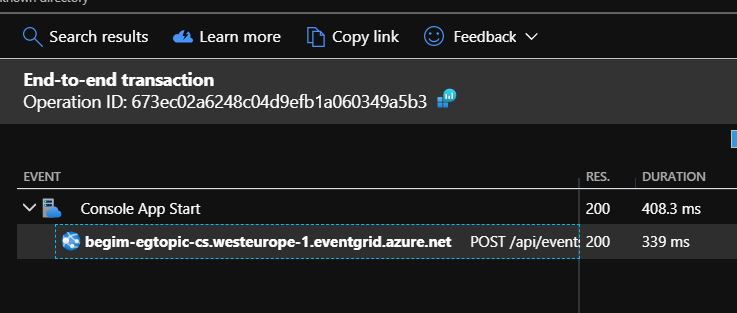
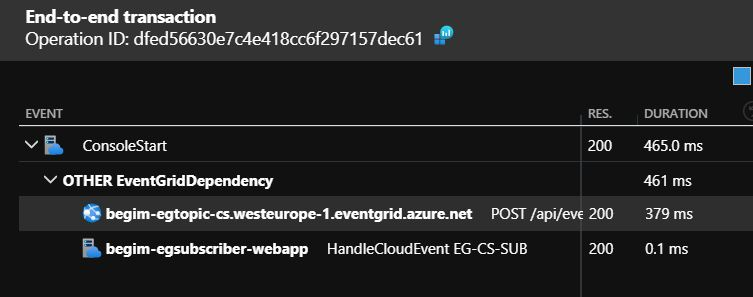
fix readme to reflect aeg scenario changes

diff --git a/README.MD b/README.MD
@@ -178,67 +178,68 @@ The Sample for Event Grid has the following components:
 > The ASP Net core App Event webhook used here is derived from this [Azure Event Viewer Sample](https://docs.microsoft.com/en-us/samples/azure-samples/azure-event-grid-viewer/azure-event-grid-viewer/).
 > A proxy with scripting could also be used.
 
-The console app begins by submitting a request telemetry item (this is a console app so there is no request pipeline for the AI SDK).
-Note that as with the functions we have the "submissionId" GUID which will represent context that we wish to "travel" with the related Telemetry.
+The console app begins by submitting a request telemetry item (this is a console app so there is no request pipeline for the AI SDK). The request telemetry item therefore represents the console app start.
+Within this operation we then start a dependency telemetry / operation which will represent the Event Grid topic submission. It is worth noting that because the console app is configured with App Insights and the http dependency module, and becuse the post to the Topic is Http, we'll get an additional dependency from the SDK - but the purpose of our explicit dependency is to obtain the correct context to write into the event.
+
+> In fact our dependency is created as a child operation of the request telemetry, we create our dependency passing in operation and request identifiers derived from the request operation context. 
+> Not only this but the http dependency generated will also be a child of our dependency - see screen snip below.
+>
+> As with the functions we have the "submissionId" GUID which will represent context that we wish to "travel" with the related Telemetry.
 
 ~~~cs
-// on console app start
+
+  // start req operation
+  var reqOp = _telemClient.StartOperation<RequestTelemetry>("ConsoleStart");
+  var operationId = reqOp.Telemetry.Id.Replace("|", "").Split('.')[0];
+  var requestId = reqOp.Telemetry.Id.Replace("|", "").Split('.')[1];
+
   var submissionId = Guid.NewGuid().ToString();
-  var requestActivity = new Activity("Console App Start");
-  requestActivity.Start();
-  requestActivity.AddBaggage("MySubmissionId", submissionId);
-  var requestOperation = client.StartOperation<RequestTelemetry>(requestActivity);
+  
+  // start dep operation
+  var dependencyOperation = _telemClient.StartOperation<DependencyTelemetry>($"EventGridDependency", operationId, requestId );
+
+  using (var httpClient = new HttpClient())
+  {
+
+      var cloudEvent = new CloudEvent<dynamic>(){
+          SpecVersion = "1.0",
+          Type="com.example.someevent",
+          Source="MyContent",
+          Id ="A234-1234-1234",
+          Time = DateTime.UtcNow.ToString(),
+          DataContentType = "application/json",
+          Data=null,
+          TraceParent = Activity.Current.Id,   //example "00-5c5031136bb4fc4ba327dca540e9e48c-455d7703d448dc42-00"
+          TraceState=$"MySubmissionId={submissionId}"
+      };
 ~~~
 
-However, because AEG does not yet natively support App Insights correlation we're going to have to ensure the operation and baggage are transmitted in the event body using the cloud event schema extension properties that exist for this reason.
+As AEG does not yet natively support App Insights correlation we have to ensure the operation and baggage are transmitted in the event body using the cloud event schema extension properties that exist for this reason. You can see the "submission id" guid is mapped ot the "TraceState" (this can be a comma delimited list of key=values). You can also see that the "TraceParent" is set from the current activity. This in turn is set from the AI operations scope we've created (with the start operations calls).
 
-> Note that TraceParent is set from the Activity Id for the request Telemetry which represents the console app start - above.
-
-~~~cs
-// today you will need to write your own class to represent the CloudEvent based on the published schema
-var cloudEvent = new CloudEvent<dynamic>(){
-  SpecVersion = "1.0",
-  Type="com.example.someevent",
-  Source="MyContent",
-  Id ="A234-1234-1234",
-  Time = DateTime.UtcNow.ToString(),
-  DataContentType = "application/json",
-  Data=null,
-  TraceParent = requestActivity.RootId,
-  TraceState=$"MySubmissionId={submissionId}"
-};
-~~~
+> Note the form of the "traceparent" payload (an example of which is in the comment). Ignoring the first and last part (which are flags) the first, longer value , is the operation id, the send the request id for the current activity.
 
 Here's the Telemetry for the Console App as traced in App Insights
 
 ![aeg-sender](./images/aeg-sender.JPG)
 
-Note the operation Id in the snip above.
+Note the relationship - our dependency doesn't get set a "type" so appears as "other".
+The HTTP dependency (which was automatically created) is typed.
+Clicking through the dependencys you will notice the request id for the parent is the parent-id for the child.
+The last thing to note is the "HandleCloudEvent EG-CS-SUB" request telemetry.
 
-Here are the receiver events
-
-![aeg-subscriber](./images/aeg-subscriber.JPG)
-
-Note the operation Id is different (which is expected) but the dependency Id (the AI operation-id from the console app) is correct for the dependency telemetry which was written from the subscriber web app like this:
+Where does this request-telemetry come from? 
+This comes from the api we deployed which subscribes to the event we've just sent.
 
 ~~~cs
-// traceParent is read from the cloud event body
-// The AEG subscription name is from the incoming request header from the message triggering the webhook
-var aegSubDependency = new DependencyTelemetry();
-aegSubDependency.Name = $"Triggered by AEG Subscription {AEGSubscriptionName}";
-aegSubDependency.Id = traceParent;
-_telemClient.TrackDependency(aegSubDependency);
+var op = _telemClient.StartOperation<RequestTelemetry>($"HandleCloudEvent {AEGSubscriptionName}", details.TraceParent.Split('-')[1], details.TraceParent.Split('-')[2]);
 ~~~
 
-Exists as Dependency Id for the dependency-telemetry and this is indeed the operation id carried in the event body from the original submission in the console app.
+Note that we've de-serialized the event payload ("details" variable) and we're unpacking the value in the "traceparent" field set in the context app and using the operation id (the second value) and the request id (the third value) as the parent. This is what causes the "handlecloudevent...." telemetry in the screen snip above to be a child of the telemetry for the event submission.
 
-![aeg-subscriber-props](./images/aeg-subscriber-props.JPG)
+> Note: Today this only renders in the end-to-end view this way because both console app and subscriber app write to the same app insights resource. Also note the "duration" is incorrect. This is because we're not setting the operation start and stop correctly.
 
-THe baggage "MySubmissionId" added above makes it to the subscriber via the Event body (TraceState property) and is added to the activity in the subscriber app and therefore shows as a custom property to the custom dependency item we wrote out in the subscriber app on Event receive.
 
-![aeg-subscriber-baggage](./images/aeg-subscriber-baggage.JPG)
-
-### << begim TO EDIT below this point >> 
+### << begim TO EDIT below this point >>
 
 Fn A -> Service Bus -> Fn B (with custom code to correlate across workspaces using a custom correlation id)
 
